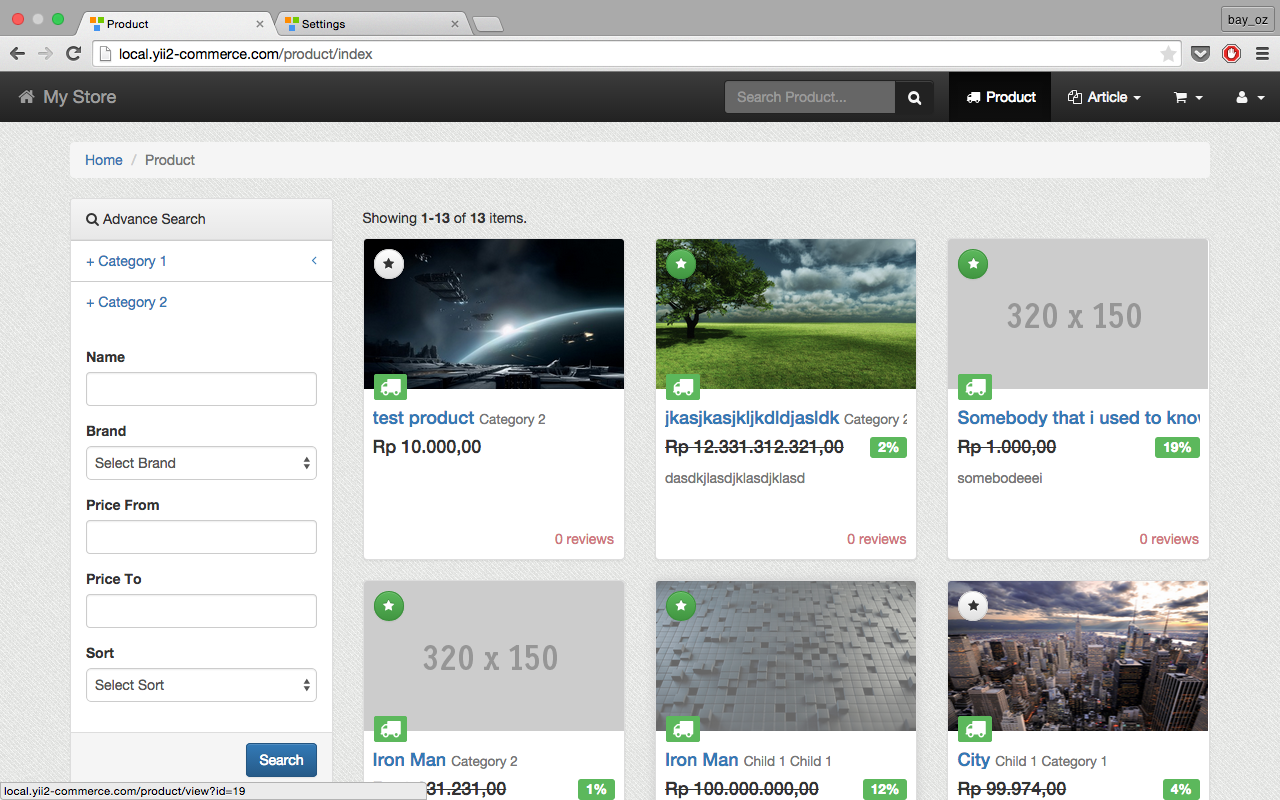
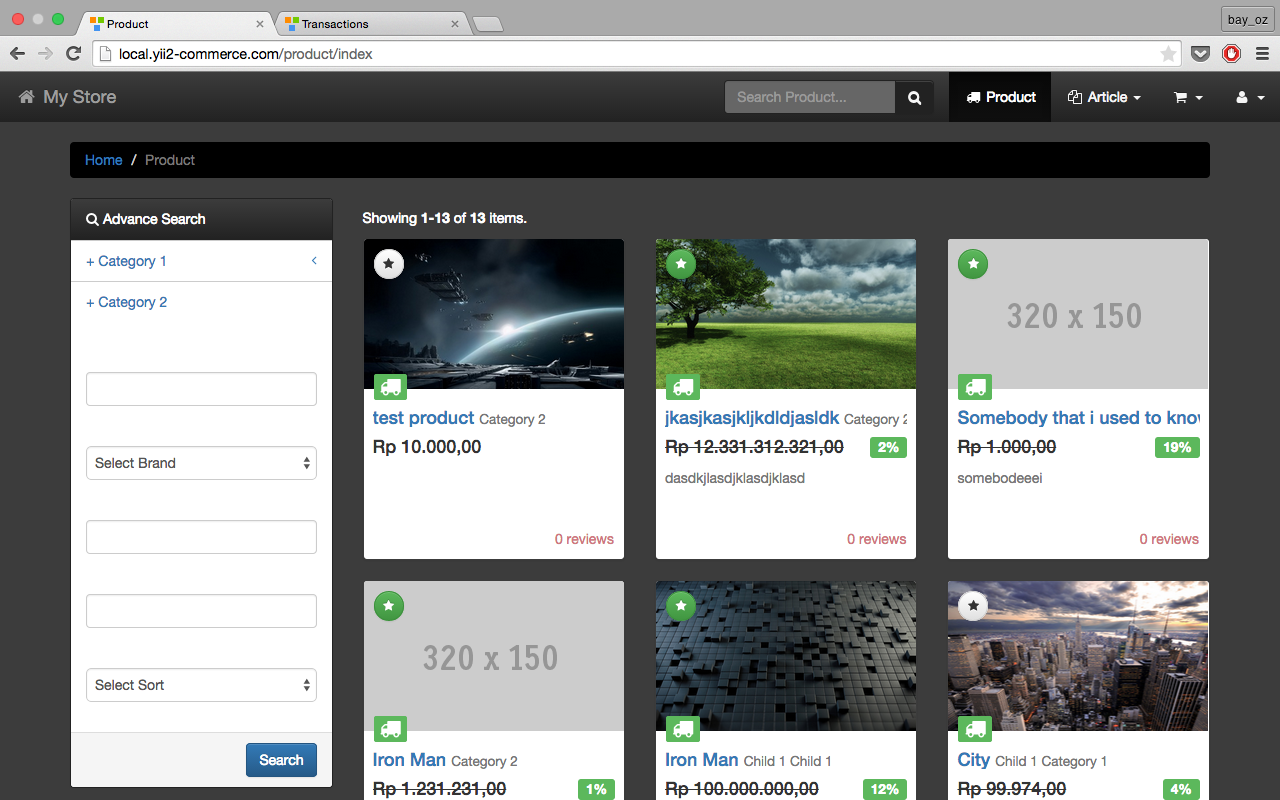
Improve black theme

diff --git a/frontend/themes/black/web/css/black.css b/frontend/themes/black/web/css/black.css
@@ -1,3 +1,13 @@
+.breadcrumb {
+    background: #000;
+}
+.wrap {
+    background: #3c3c3c;
+    color: #fff;
+}
+.panel {
+    border: 1px solid #222;
+}
 .navbar-form .btn {
     background: #222;
     border-color: #222;
@@ -8,18 +18,11 @@
     border-color: #222;
     color: #f5f5f5;
 }
-.wrap {
-    background: url('../images/rough_diagonal.png') repeat #e6e6e6;
-}
-.footer {
-    background: #333;
-    color: #fff;
-}
-.footer a{
-    color: #ddd;
+.thumbnail{
+    border-color: #3c3c3c;
 }
 .thumbnail:hover {
-    box-shadow: 0 0 15px #ccc;
+    box-shadow: 0 0 15px #222;
 }
 
 .thumbnail .image {
@@ -30,4 +33,38 @@
 }
 .thumbnail:hover .image{
     opacity: .6;
+}
+.panel-default {
+    border-color: #222;
+}
+.panel-default > .panel-heading {
+    color: #fff;
+    background-color: #222;
+    border-color: #222;
+}
+.panel-default > .panel-heading + .panel-collapse > .panel-body {
+    border-top-color: #222;
+}
+.panel-default > .panel-heading .badge {
+    color: #fff;
+    background-color: #222;
+}
+.panel-default > .panel-footer + .panel-collapse > .panel-body {
+    border-bottom-color: #222;
+}
+.panel-default > .panel-heading {
+    background-image: -webkit-linear-gradient(top, #3c3c3c 0%, #222 100%);
+    background-image:      -o-linear-gradient(top, #3c3c3c 0%, #222 100%);
+    background-image: -webkit-gradient(linear, left top, left bottom, from(#3c3c3c), to(#222));
+    background-image:         linear-gradient(to bottom, #3c3c3c 0%, #222 100%);
+    filter: progid:DXImageTransform.Microsoft.gradient(startColorstr='#ff3c3c3c', endColorstr='#ff222222', GradientType=0);
+    filter: progid:DXImageTransform.Microsoft.gradient(enabled = false);
+    background-repeat: repeat-x;
+}
+.footer {
+    background: #000;
+    color: #fff;
+}
+.footer a{
+    color: #ddd;
 }

diff --git a/frontend/themes/white/web/css/white.css b/frontend/themes/white/web/css/white.css
@@ -1,5 +1,5 @@
 .wrap {
-    background: #f9f9f9;
+    background: url('../images/rough_diagonal.png') repeat #e6e6e6;
 }
 .thumbnail:hover {
     box-shadow: 0 0 5px #eee;

diff --git a/common/models/ProductSearch.php b/common/models/ProductSearch.php
@@ -28,7 +28,7 @@ class ProductSearch extends Product
     public function rules()
     {
         return [
-            [['id', 'price', 'discount', 'stock', 'brand_id', 'price_from', 'price_to', 'stock_from', 'stock_to','discount_from', 'discount_to','status', 'visible', 'order', 'created_at', 'updated_at'], 'integer'],
+            [['id', 'price', 'discount', 'stock', 'brand_id', 'price_from', 'price_to', 'stock_from', 'stock_to', 'discount_from', 'discount_to', 'status', 'visible', 'order', 'created_at', 'updated_at'], 'integer'],
             [['name', 'sort', 'description', 'category_name'], 'safe'],
         ];
     }
@@ -41,15 +41,17 @@ class ProductSearch extends Product
         // bypass scenarios() implementation in the parent class
         return Model::scenarios();
     }
+
     /**
      * getCatId as Array
      * @param Category $category
      * @return array
      */
-    protected function getCategoryChildIds($category){
+    protected function getCategoryChildIds($category)
+    {
         $return = [];
         $return[] = $category->id;
-        if ($child = $category->children()->all()){
+        if ($child = $category->children()->all()) {
             foreach ($child as $cat) {
                 array_merge($return, $this->getCategoryChildIds($cat));
             }
@@ -70,6 +72,9 @@ class ProductSearch extends Product
 
         $dataProvider = new ActiveDataProvider([
             'query' => $query,
+            'pagination' => [
+                'pageSize' => 15,
+            ],
             'sort' => [
                 'defaultOrder' => [
                     'updated_at' => SORT_DESC,
@@ -107,8 +112,8 @@ class ProductSearch extends Product
             ->andFilterWhere(['<=', 'stock', $this->stock_to])
             ->andFilterWhere(['like', 'product.description', $this->description]);
 
-        if ($this->cat_id && $cat_ids = Category::findOne($this->cat_id)){
-            $query->andFilterWhere(['in', 'cat_id', $cat_ids]);    
+        if ($this->cat_id && $cat_ids = Category::findOne($this->cat_id)) {
+            $query->andFilterWhere(['in', 'cat_id', $cat_ids]);
         }
 
         return $dataProvider;

diff --git a/backend/views/email-template/index.php b/backend/views/email-template/index.php
@@ -15,20 +15,24 @@ $this->params['breadcrumbs'][] = $this->title;
 <div class="article-index">
 
     <h1><?= Html::encode($this->title) ?></h1>
-    <?php
-    Pjax::begin();  
-    echo GridView::widget([
-        'dataProvider' => $dataProvider,
-        'filterModel' => $searchModel,
-        'columns' => [
-            'title',
-            [
-                'class' => 'yii\grid\ActionColumn',
-                'template' => '{update}'
-            ],
-        ],
-    ]);
-    Pjax::end();
-    ?>
+    <div class="row">
+        <div class="col-sm-8">
+            <?php
+            Pjax::begin();
+            echo GridView::widget([
+                'dataProvider' => $dataProvider,
+                'filterModel' => $searchModel,
+                'columns' => [
+                    'title',
+                    [
+                        'class' => 'yii\grid\ActionColumn',
+                        'template' => '{update}'
+                    ],
+                ],
+            ]);
+            Pjax::end();
+            ?>
+        </div>
+    </div>
 
 </div>

diff --git a/backend/views/pages/index.php b/backend/views/pages/index.php
@@ -15,20 +15,23 @@ $this->params['breadcrumbs'][] = $this->title;
 <div class="article-index">
 
     <h1><?= Html::encode($this->title) ?></h1>
-    <?php
-    Pjax::begin();  
-    echo GridView::widget([
-        'dataProvider' => $dataProvider,
-        'filterModel' => $searchModel,
-        'columns' => [
-            'title',
-            [
-                'class' => 'yii\grid\ActionColumn',
-                'template' => '{update}'
-            ],
-        ],
-    ]);
-    Pjax::end();
-    ?>
-
+    <div class="row">
+        <div class="col-sm-8">
+            <?php
+            Pjax::begin();
+            echo GridView::widget([
+                'dataProvider' => $dataProvider,
+                'filterModel' => $searchModel,
+                'columns' => [
+                    'title',
+                    [
+                        'class' => 'yii\grid\ActionColumn',
+                        'template' => '{update}'
+                    ],
+                ],
+            ]);
+            Pjax::end();
+            ?>
+        </div>
+    </div>
 </div>

diff --git a/frontend/views/product/view.php b/frontend/views/product/view.php
@@ -17,7 +17,7 @@ $this->params['breadcrumbs'][] = ['label' => $model->category->name, 'url' => ['
 $this->params['breadcrumbs'][] = $this->title;
 ?>
 <div class="product-view">
-    <h1 class="page-header"><?= Html::decode($model->name) ?> <small><?= $model->category->name ?></small></h1>
+    <h1><?= Html::decode($model->name) ?> <small><?= $model->category->name ?></small></h1>
         <div class="row">
             <div class="col-md-7">
                 <div class="form-group">

diff --git a/backend/views/setting/theme.php b/backend/views/setting/theme.php
@@ -13,6 +13,11 @@ use yii\bootstrap\Carousel;
 $this->title = 'Select Theme';
 $this->params['breadcrumbs'][] = $this->title;
 ?>
+<style type="text/css">
+    .carousel-caption {
+        background: rgba(0,0,0,0.8);
+    }
+</style>
 <div class="row">
     <div class="col-sm-8">
         <h1>
